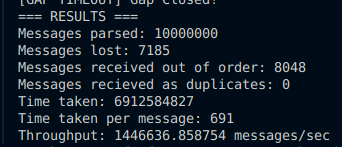
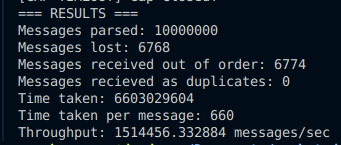
optimize parsing loop

diff --git a/test/benchmarking/benchmark_packet_mmap.cpp b/test/benchmarking/benchmark_packet_mmap.cpp
@@ -99,8 +99,9 @@ int main() {
     auto now = std::chrono::steady_clock::now();
     // 8. Loop over the shared ring buffer in modulo pattern so we continuously iterate
      // Ensure the frame index is always within the frame count of the shared ring buffer
-    uint32_t frame_num = 0;
-    for(uint32_t frame_num = 0; ;frame_num = (frame_num + 1) % num_of_frames)
+    uint32_t mcast_ip = inet_addr(MULTICAST_IP);
+    uint16_t dest_port = htons(PORT);
+    for(uint32_t frame_num = 0; ;frame_num = (frame_num + 1) & (num_of_frames - 1))
     {
         // Get the TPACKET frame for the current frame number and get its header
         auto *frame_header = (tpacket_hdr *)((uint8_t*)ringPtr + (frame_num * frame_size));
@@ -114,10 +115,6 @@ int main() {
         // Get the ethernet frame from the TPACKET frame
         // Add the offset of the ethernet header to the frame_header to get a pointer to the ethernet header
         char *buf = (char *)frame_header + frame_header->tp_mac;
-        // if (frame_header->tp_len < 14) {
-        //     releaseFrame(frame_header);
-        //     continue;
-        // }
 
         // Now buf contains the read ethernet frame, we must decode it and obtain the UDP payload
         // We dont need to parse the dest MAC because its already encoded in the dest IP (01:00:5e:01:01:01 => 239.1.1.1)
@@ -126,7 +123,7 @@ int main() {
 
         // Now we can filter by the dest IP addr (should be 239.1.1.1)
         uint32_t dest_ip_addr = ip_header->daddr;
-        if (dest_ip_addr != inet_addr(MULTICAST_IP)) {
+        if (dest_ip_addr != mcast_ip) {
             releaseFrame(frame_header);
             continue; // Compare the binary network byte order of the dest addr in the IP packet and the known multicast IP
         }
@@ -145,7 +142,7 @@ int main() {
         // Now get the UDP header and filter by the 30001 port
         udphdr* udp_header = (udphdr*)(buf + 14 + ip_header_length);
         int udp_port = udp_header->dest;
-        if (udp_port != htons(PORT)) {
+        if (udp_port != dest_port) {
             releaseFrame(frame_header); 
             continue; 
         }
@@ -156,13 +153,8 @@ int main() {
         // And determine the size using the IP header. The IP payload size is equal to the total length field (16 bit) - IHL (4 bit) * 4, which we already have.
         // Then we can get the UDP payload size by taking away the UDP header from that value
         ssize_t payload_length = ntohs(ip_header->tot_len) - ip_header_length - 8;
-        // if (payload_length <= 0) {
-        //     releaseFrame(frame_header);
-        //     continue;
-        // }
         parseMessage(payload, payload_length);
         handleGapTimeout();
-        fflush(stdout);
 
         releaseFrame(frame_header);
         if (GlobalState::parsedMessages > NUM_MESSAGES) break;
